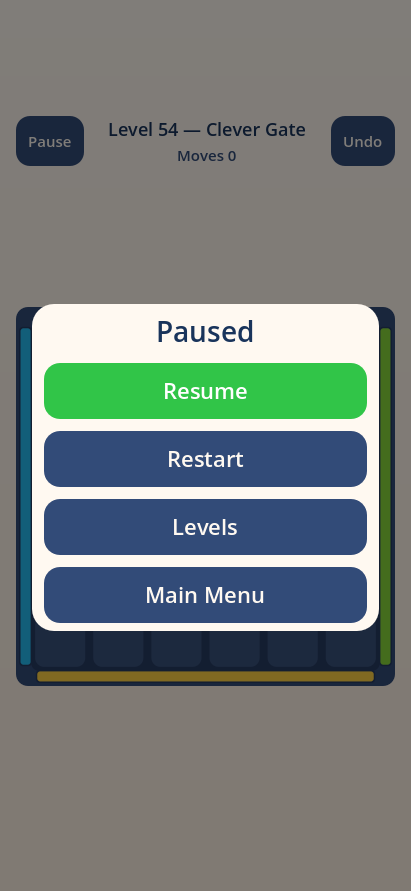
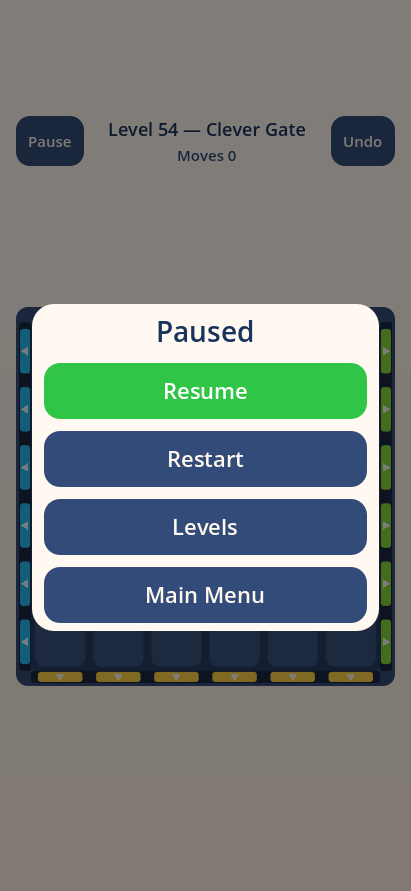
feat(pearl): gates drawn as cell doors (owner-chosen style B)
Owner feedback: gates read as long strips along whole edges. Every Classic
gate spans its full edge in the level data, so the full range stays visible;
it is now drawn as one door per cell over exactly the rule's exit range
lo..hi (no end pad, never narrower), with an outward arrow on each door, on
a dark rail inside the frame band.

Edges shared by two gates (levels 6, 7, 90, 91, 94, 95, 97, 99) split each
door into one lane per colour; previously only the last colour was drawn.
Lock glyph and counter badge stay centred on the rail.

Renderer only: no level, rule, solver, scoring, save or touch change;
gameplay/engine stays legacy.

test_board_geometry: rail spans exactly lo..hi, one door per cell centred on
its cell and inside the rail, distinct lanes on shared edges (68564 checks,
0 failures). Pearl pack re-rendered as round 3 (desktop renders).

diff --git a/docs/qa/pearl_signoff/README.md b/docs/qa/pearl_signoff/README.md
@@ -1,9 +1,17 @@
-# Pearl theme — owner visual sign-off pack (decision D3), round 2
+# Pearl theme — owner visual sign-off pack (decision D3), round 3
 
 **Status: pending owner review.** Round 1 (`before/00_contact_sheet_round1.png`) was returned
 with changes requested for the board's left/right edges, the strip under the board and the
-board behind the Pause / Win dialogs. Round 2 corrects the board frame (presentation only).
-`.gdignore` keeps these files out of the Godot project import.
+board behind the Pause / Win dialogs. Round 2 corrected the board frame. The owner then asked
+for gates to read as exit openings rather than edge strips and chose style **B, cell doors**
+(`gates/GATE_DESIGN.md`). Round 3 (this pack) shows the frame fix plus cell doors. Presentation
+only. `.gdignore` keeps these files out of the Godot project import.
+
+**Gates (round 3).** Every Classic gate spans its whole edge in the level data (313 of 313),
+so a gate is drawn as one door per cell over exactly the rule's exit range `lo..hi`, each with
+an outward arrow, on a dark rail. Where two colours share an edge (levels 6, 7, 90, 91, 94, 95,
+97, 99) each door is split into one lane per colour; before this, only the last colour was
+visible.
 
 **Start here: `00_contact_sheet.png`**, then `11_before_after.png` and `12_responsive.png`.
 
@@ -34,8 +42,9 @@ That is unchanged.
 
 ## What changed
 
-- Gates are a recessed slot inside the frame band (board-bed colour) with the coloured bar inside
-  it. The outer 20 % of the frame band stays an unbroken rim on every side.
+- Gates sit inside the frame band as cell doors on a dark rail over exactly `lo..hi` (round 3;
+  round 2 used one coloured bar). The outer 20 % of the frame band stays an unbroken rim on
+  every side.
 - The board and its frame are fitted together: the frame spans the board area's full width (the
   same edges as the Pause / Undo buttons) unless the height is the limit, and is centred with
   equal margins above and below.

diff --git a/docs/qa/pearl_signoff/gates/GATE_DESIGN.md b/docs/qa/pearl_signoff/gates/GATE_DESIGN.md
@@ -1,8 +1,9 @@
 # Gate presentation — investigation and alternatives (owner review)
 
-**Status: proposal only. Nothing here is implemented in the game.** PR #26 stays a draft and
-Pearl D3 stays pending until the owner picks a direction. No level data, rule, solver, scoring
-or save change is proposed.
+**Status: the owner chose B (cell doors); implemented in PR #26 (renderer only) with the
+mocked defaults: door depth 80 % of the frame band, an arrow on every door, a 10 % cell gap at
+each end of a door. Pearl D3 stays pending until the owner approves the result.** No level
+data, rule, solver, scoring or save change.
 
 Sheets: `gate_alternatives.png` (4 styles × 5 boards) and `gate_alternatives_zoom.png` (edge
 detail at 1:1). Both are desktop renders at the Galaxy M31 canvas width from
